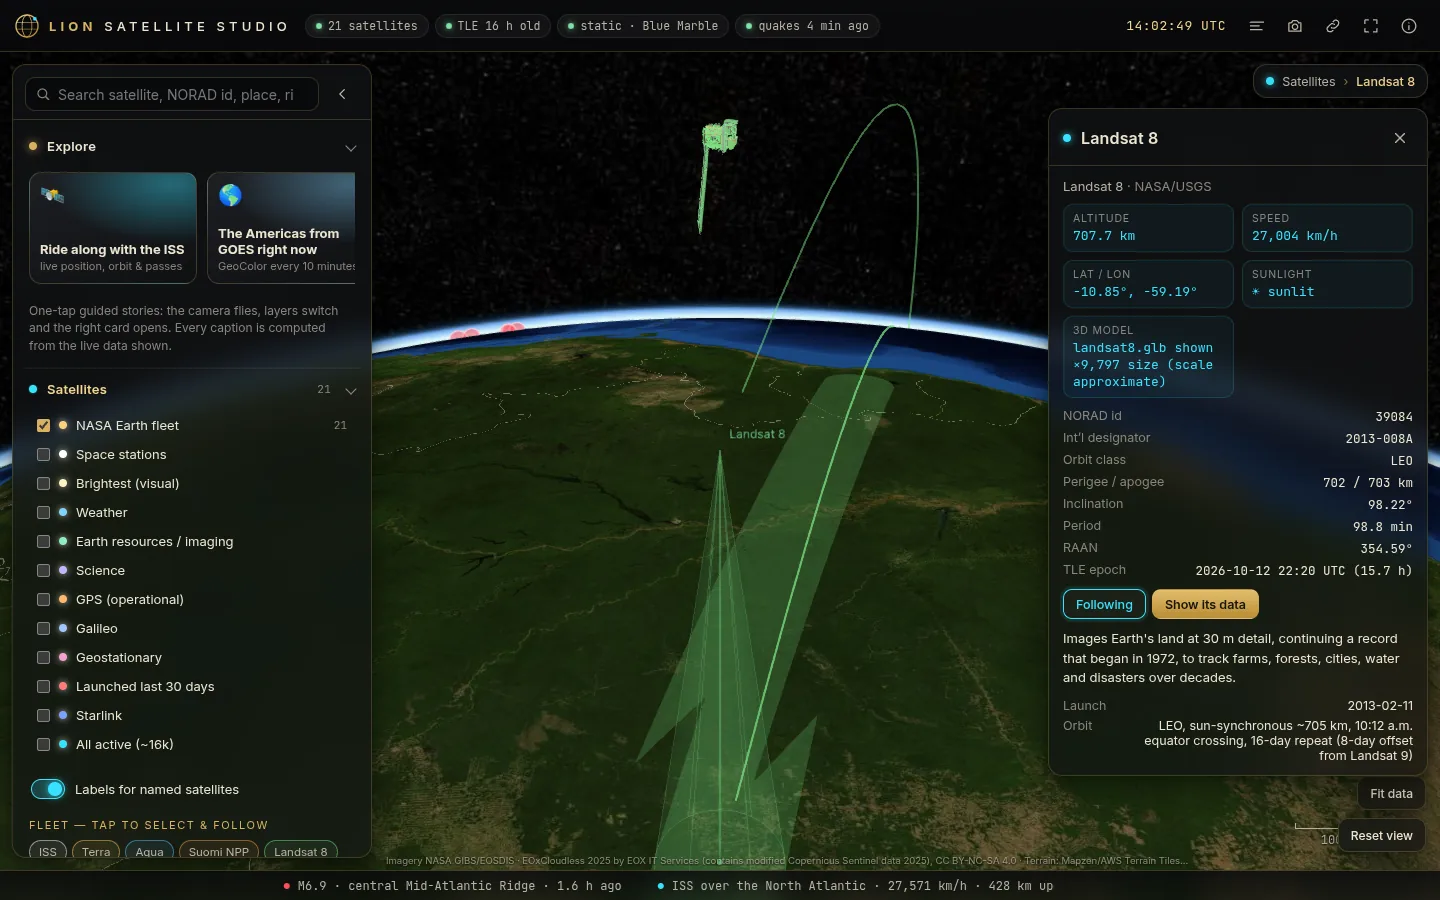
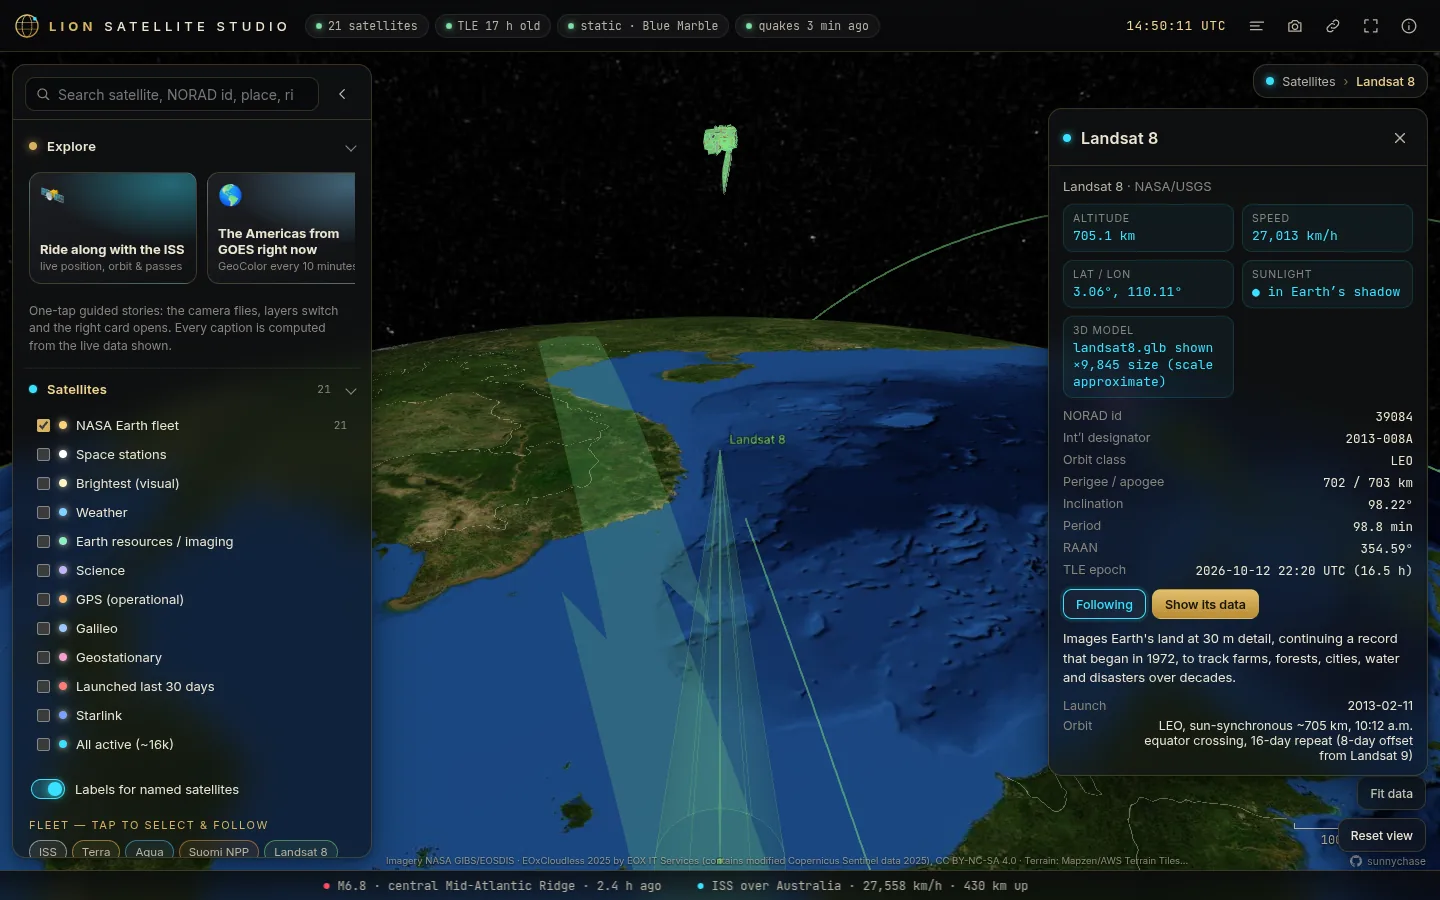
Credit the creator: Sunny Chase, in collaboration with Claude
"Created by Sunny Chase (https://github.com/sunnychase) in collaboration with Claude
(Anthropic)" in LICENSE, the header of server.py, analysis.py and every first-party page
module and stylesheet, the README, and the page's About box; a small GitHub link
(sunnychase) at the bottom right of the page. Screenshots retaken with the link.

Claude-Session: https://claude.ai/code/session_01AAy6p9AWabo6CaCTzkXMfB

diff --git a/static/css/app.css b/static/css/app.css
@@ -1,3 +1,4 @@
+/* Created by Sunny Chase (https://github.com/sunnychase) in collaboration with Claude (Anthropic). */
 /* Lion Satellite Studio — charcoal & gold, frosted glass */
 @font-face { font-family: Inter; font-weight: 300; font-display: swap; src: url(../fonts/inter-latin-300-normal.woff2) format('woff2'); }
 @font-face { font-family: Inter; font-weight: 400; font-display: swap; src: url(../fonts/inter-latin-400-normal.woff2) format('woff2'); }
@@ -316,4 +317,13 @@ body.drawing #globe { cursor: crosshair; }
 @media (prefers-reduced-motion: reduce) {
   *, *::before, *::after { animation-duration: .01ms !important; animation-iteration-count: 1 !important; transition-duration: .01ms !important; }
   .ticker .track { animation: none; padding-left: 12px; overflow-x: auto; }
+}
+
+/* creator link (bottom right) */
+.maker { position: fixed; right: calc(14px + var(--sa-r)); bottom: calc(var(--ticker-h) + 3px + var(--sa-bot)); z-index: 18; display: inline-flex; align-items: center; gap: 5px; font-size: 10px; letter-spacing: .02em; color: rgba(236, 228, 207, .6); text-decoration: none; text-shadow: 0 1px 2px #000; }
+.maker svg { width: 12px; height: 12px; fill: currentColor; stroke: none; }
+.maker:hover { color: var(--gold2); }
+@media (max-width: 699px) {
+  .maker { right: 8px; bottom: calc(94px + var(--sa-bot)); font-size: 9px; }
+  .credits-line { right: 92px; }
 }

diff --git a/static/js/app.js b/static/js/app.js
@@ -1,3 +1,4 @@
+// Created by Sunny Chase (https://github.com/sunnychase) in collaboration with Claude (Anthropic).
 // Lion Satellite Studio — main: viewer, camera manager, HUD, panel, search, tours, share, capture.
 import { App, $, $$, el, getJSON, store, toast, fmtAgo, fmtUTC, fmtNum, requestRender, FAMILY, debounce, tick, chip, ymd } from './util.js';
 import * as IM from './imagery.js';
@@ -739,6 +740,7 @@ function buildAbout(status) {
   const b = $('#about-body');
   b.innerHTML = `
   <p>Lion Satellite Studio is a live 3D globe of open satellite data. Everything shown is keyless and fetched from the providers below; the server caches every upstream (CelesTrak ≥ 2 h, USGS 5 min, GIBS catalogue 6 h, ASF hourly, Hydrocron 12 h) and is not an open proxy.</p>
+  <p class="small">Created by <a href="https://github.com/sunnychase" target="_blank" rel="noopener">Sunny Chase</a> in collaboration with Claude (Anthropic). Open source under the MIT licence: <a href="https://github.com/sunnychase/lion-satellite-studio" target="_blank" rel="noopener">github.com/sunnychase/lion-satellite-studio</a>.</p>
   <h3>Data rules</h3>
   <ul><li>Satellite positions are propagated in your browser with SGP4 (satellite.js) from CelesTrak general-perturbation elements.</li>
   <li>Imagery tiles load directly from NASA GIBS and EOX; terrain from the AWS Open Data terrain tiles.</li>

diff --git a/static/index.html b/static/index.html
@@ -1,4 +1,5 @@
 <!doctype html>
+<!-- Created by Sunny Chase (https://github.com/sunnychase) in collaboration with Claude (Anthropic). -->
 <html lang="en">
 <head>
 <meta charset="utf-8">
@@ -75,6 +76,7 @@
 </div>
 <datalist id="place-list"></datalist>
 <div id="credits-line" class="credits-line"></div>
+<a id="maker" class="maker" href="https://github.com/sunnychase" target="_blank" rel="noopener" title="Created by Sunny Chase in collaboration with Claude (Anthropic)"><svg viewBox="0 0 16 16" aria-hidden="true"><path d="M8 0C3.58 0 0 3.58 0 8c0 3.54 2.29 6.53 5.47 7.59.4.07.55-.17.55-.38 0-.19-.01-.82-.01-1.49-2.01.37-2.53-.49-2.69-.94-.09-.23-.48-.94-.82-1.13-.28-.15-.68-.52-.01-.53.63-.01 1.08.58 1.23.82.72 1.21 1.87.87 2.33.66.07-.52.28-.87.51-1.07-1.78-.2-3.64-.89-3.64-3.95 0-.87.31-1.59.82-2.15-.08-.2-.36-1.02.08-2.12 0 0 .67-.21 2.2.82.64-.18 1.32-.27 2-.27.68 0 1.36.09 2 .27 1.53-1.04 2.2-.82 2.2-.82.44 1.1.16 1.92.08 2.12.51.56.82 1.27.82 2.15 0 3.07-1.87 3.75-3.65 3.95.29.25.54.73.54 1.48 0 1.07-.01 1.93-.01 2.2 0 .21.15.46.55.38A8.013 8.013 0 0016 8c0-4.42-3.58-8-8-8z"/></svg><span>sunnychase</span></a>
 <script type="module" src="js/app.js"></script>
 </body>
 </html>

diff --git a/static/js/data.js b/static/js/data.js
@@ -1,3 +1,4 @@
+// Created by Sunny Chase (https://github.com/sunnychase) in collaboration with Claude (Anthropic).
 // Lion Satellite Studio — event and product layers: USGS earthquakes, NISAR footprints (ASF),
 // SWOT water heights (PO.DAAC Hydrocron), ships (aisstream.io) and GFW SAR dark vessels.
 import { App, $, el, getJSON, chip, tick, fmtAgo, fmtUTC, fmtNum, fmtBytes, store, toast, sparkline, drawSeries, requestRender, FAMILY, skeleton, emptyState } from './util.js';

diff --git a/static/js/radar.js b/static/js/radar.js
@@ -1,3 +1,4 @@
+// Created by Sunny Chase (https://github.com/sunnychase) in collaboration with Claude (Anthropic).
 // Lion Satellite Studio — Sentinel-1 radar (Planetary Computer sentinel-1-rtc): scenes in view, VV/VH
 // rendering, before/after swipe, draw-a-box analysis (flood, change, ships, time series).
 import { App, $, el, getJSON, chip, tick, fmtAgo, fmtUTC, fmtNum, store, toast, skeleton, emptyState, requestRender, FAMILY } from './util.js';

diff --git a/static/js/sats.js b/static/js/sats.js
@@ -1,3 +1,4 @@
+// Created by Sunny Chase (https://github.com/sunnychase) in collaboration with Claude (Anthropic).
 // Lion Satellite Studio — satellites: CelesTrak GP data, SGP4 in a Web Worker, points/labels,
 // selection card, orbit + ground track, swath + sensor cone, 3D models, eclipse, passes.
 import { App, $, el, getJSON, chip, tick, fmtAgo, fmtUTC, fmtNum, store, toast, sparkline, requestRender, FAMILY, esc } from './util.js';

diff --git a/static/js/imagery.js b/static/js/imagery.js
@@ -1,3 +1,4 @@
+// Created by Sunny Chase (https://github.com/sunnychase) in collaboration with Claude (Anthropic).
 // Lion Satellite Studio — imagery: NASA GIBS (WMTS/WMS, EPSG:4326 "best"), EOX Sentinel-2 cloudless
 // high-resolution backdrop, AWS Terrain Tiles (Terrarium) terrain, Natural Earth borders.
 import { App, $, el, getJSON, chip, tick, ymd, fmtAgo, store, toast, requestRender, FAMILY } from './util.js';

diff --git a/static/js/satworker.js b/static/js/satworker.js
@@ -1,3 +1,4 @@
+// Created by Sunny Chase (https://github.com/sunnychase) in collaboration with Claude (Anthropic).
 // Lion Satellite Studio — SGP4 propagation worker. Propagates every satellite in a batch and
 // returns Earth-fixed positions (metres) in a transferable Float64Array.
 import { json2satrec } from '../vendor/satellite/io.js';

diff --git a/static/js/util.js b/static/js/util.js
@@ -1,3 +1,4 @@
+// Created by Sunny Chase (https://github.com/sunnychase) in collaboration with Claude (Anthropic).
 // Lion Satellite Studio — shared helpers and app state.
 export const App = {
   viewer: null,

diff --git a/analysis.py b/analysis.py
@@ -1,4 +1,5 @@
 #!/usr/bin/env python3
+# Created by Sunny Chase (https://github.com/sunnychase) in collaboration with Claude (Anthropic).
 """Lion Satellite Studio - Sentinel-1 RTC analysis worker (CPU only, one job at a time).
 
 Runs in the Python environment named by LSS_VENV_PYTHON, which has the optional radar extras

diff --git a/server.py b/server.py
@@ -1,4 +1,5 @@
 #!/usr/bin/env python3
+# Created by Sunny Chase (https://github.com/sunnychase) in collaboration with Claude (Anthropic).
 """Lion Satellite Studio - a 3D globe of open satellite data.
 
 One stdlib-only file. Serves static/ and a handful of CACHED, FIXED-URL upstream

diff --git a/README.md b/README.md
@@ -5,6 +5,8 @@
 Where every Earth-observation satellite is right now, what it sees, and what its data says: GOES weather from minutes ago,
 night lights, NISAR radar footprints, SWOT river heights, and your own Sentinel-1 radar analyses. One small Python server, any browser.</p>
 
+<p align="center"><em>Created by <a href="https://github.com/sunnychase">Sunny Chase</a> in collaboration with Claude (Anthropic).</em></p>
+
 <p align="center">
   <a href="https://github.com/sunnychase/lion-satellite-studio/actions/workflows/ci.yml"><img src="https://img.shields.io/github/actions/workflow/status/sunnychase/lion-satellite-studio/ci.yml?branch=main&style=flat-square&label=CI" alt="CI"></a>
   <a href="LICENSE"><img src="https://img.shields.io/badge/license-MIT-blue?style=flat-square" alt="License: MIT"></a>
@@ -324,6 +326,11 @@ If the project is useful to you, you can support it with a [donation](https://do
     <img alt="Lion Satellite Studio star history" src="https://api.star-history.com/svg?repos=sunnychase/lion-satellite-studio&type=Date" width="600">
   </picture>
 </a>
+
+## Credits
+
+Created by **[Sunny Chase](https://github.com/sunnychase)** in collaboration with **Claude** (Anthropic). Data from NASA, NOAA,
+USGS, ESA/Copernicus, CNES, ISRO and the other providers listed above; software and models as listed in [NOTICE.md](NOTICE.md).
 
 ## License
 
